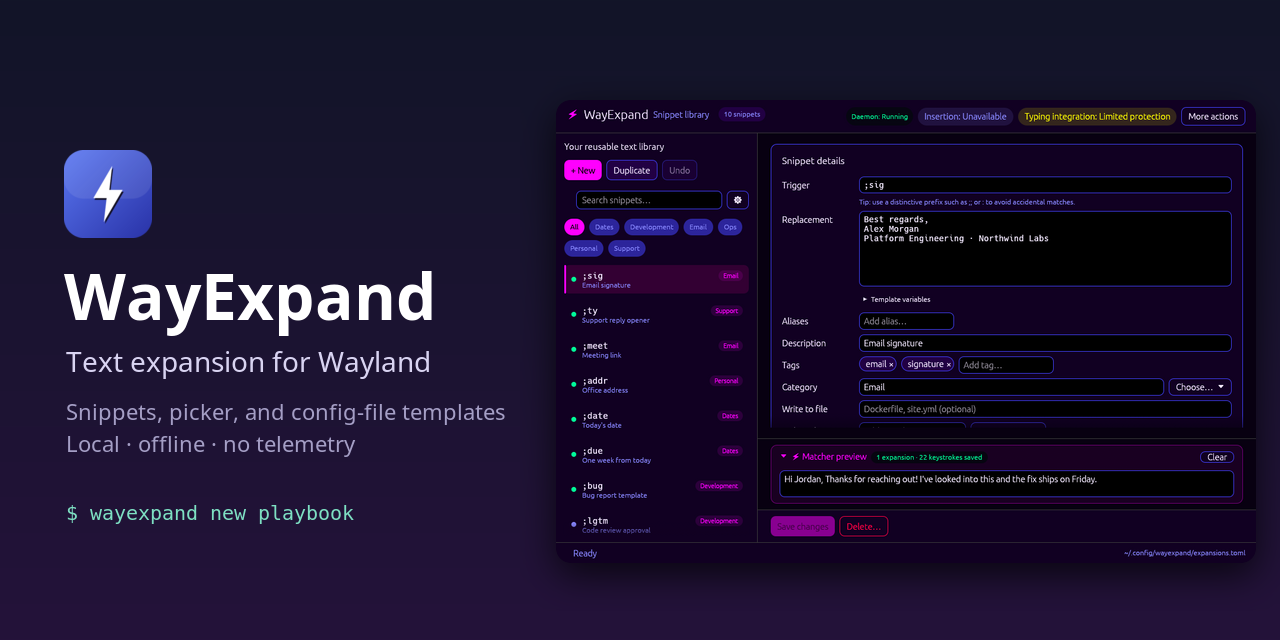
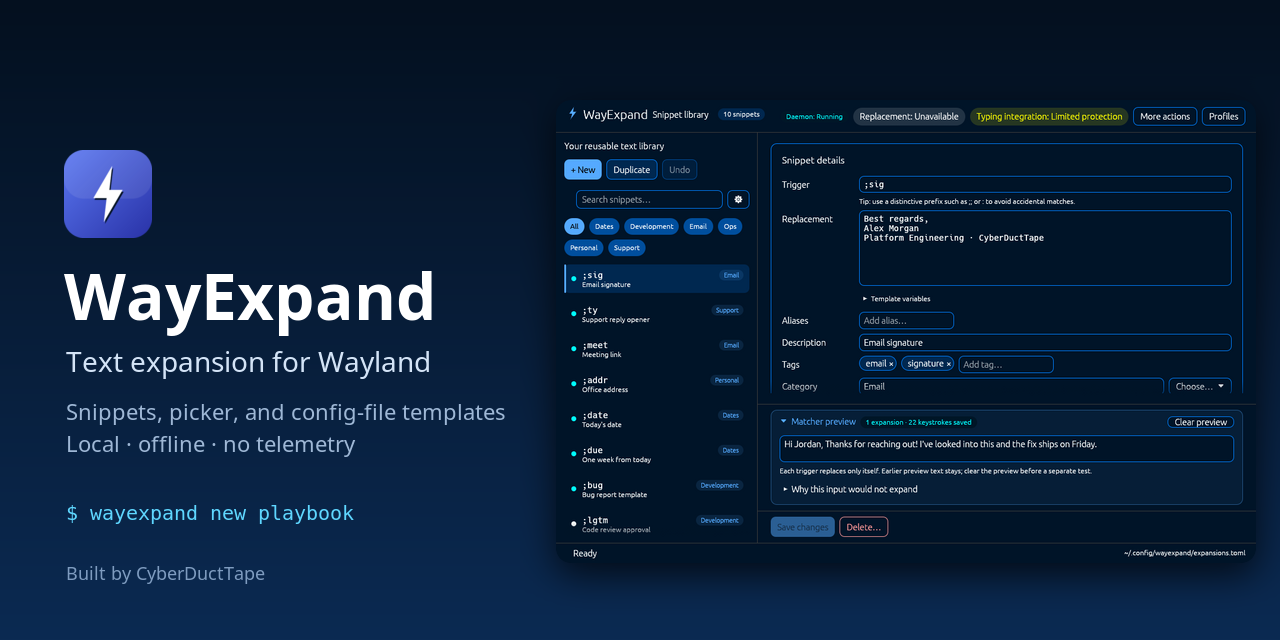
Refresh preview screenshots in the Terminal Blue pack
Recapture the editor, first-run screen, and quick-insert picker from the
current GUI in Terminal Blue (previously Retro 80s Neon), using a sample
library committed as docs/images/screenshot-library.toml with
CyberDuctTape as the example organization. Rebuild the social preview
in matching blues with a CyberDuctTape credit, document the capture
commands, credit CyberDuctTape in both READMEs, and describe the
first-run screen's four steps accurately.

diff --git a/README.md b/README.md
@@ -12,7 +12,7 @@ signature. Type `;ty` and get your support reply — with the cursor waiting
 where you need to keep typing. Dates, addresses, templates, team snippets:
 local, offline, no account, no telemetry.
 
-![WayExpand's editor in the Retro 80s Neon color pack, with the Matcher preview: typing "Hi Jordan, ;ty …" expanded into a full support reply, "1 expansion · 22 keystrokes saved"](docs/images/wayexpand-editor-try-it-live.png)
+![WayExpand's editor in the Terminal Blue color pack, with the Matcher preview: typing "Hi Jordan, ;ty …" expanded into a full support reply, "1 expansion · 22 keystrokes saved"](docs/images/wayexpand-editor-try-it-live.png)
 
 ### What makes it different
 
@@ -27,7 +27,7 @@ local, offline, no account, no telemetry.
   tracking (currently KDE Plasma); elsewhere, or without the service, Enter
   copies it to the clipboard. No trigger to remember.
 
-  ![The quick-insert picker in the Retro 80s Neon color pack: a search box above the snippet list, each entry showing its trigger, description, category, and a preview](docs/images/wayexpand-quick-insert-picker.png)
+  ![The quick-insert picker in the Terminal Blue color pack: a search box above the snippet list, each entry showing its trigger, description, category, and a preview](docs/images/wayexpand-quick-insert-picker.png)
 
 - **Whole config files, filled in.** `wayexpand new playbook` asks for the
   host group and package and writes a ready Ansible playbook. Dockerfiles,
@@ -100,14 +100,16 @@ packages and the Ubuntu PPA's status.
 
 ## Your first minute
 
-![WayExpand's first-run screen in the Retro 80s Neon color pack with three steps: Turn on WayExpand, Add your first snippet, Try it](docs/images/wayexpand-first-run.png)
+![WayExpand's first-run screen in the Terminal Blue color pack with four steps: Turn on WayExpand, Verify this desktop session, Add your first snippet, Check the Matcher preview](docs/images/wayexpand-first-run.png)
 
 1. **Turn on WayExpand** — one click in the GUI, or `wayexpand setup` in a
    terminal.
-2. **Add a snippet** — *Create test snippet*, write your own, or import Espanso.
-3. **Try it** — type the trigger in *Matcher preview*, then in a normal text
-   field in an app you use. Check *Desktop details* for the capabilities and
-   certification status of the active integration.
+2. **Verify this desktop session** — the GUI checks that the user service is
+   reachable; *Open diagnostics* shows the capabilities and certification
+   status of the active integration.
+3. **Add a snippet** — *Create test snippet*, write your own, or import Espanso.
+4. **Try it** — type the trigger in *Matcher preview*, then in a normal text
+   field in an app you use.
 
 Set up the picker by adding a desktop shortcut (for example <kbd>Super</kbd> +
 <kbd>.</kbd>) that runs `wayexpand-gui --picker`. Scripts can do the same with
@@ -236,4 +238,5 @@ checks, systemd validation, packaging checks, and dependency advisories.
 
 ## License
 
-[MIT](LICENSE)
+[MIT](LICENSE). WayExpand is built and maintained by
+[CyberDuctTape](https://github.com/cyberducttape).

diff --git a/docs/GUI.md b/docs/GUI.md
@@ -505,10 +505,23 @@ Potential color packs for future releases:
 ## Screenshots
 
 The first-run screen and the editor with the Matcher preview, both in the
-Retro 80s Neon color pack. `scripts/gui-screenshot.sh` renders the same
-screens from a debug build inside a private headless KWin.
+Terminal Blue color pack. `scripts/gui-screenshot.sh` renders the same
+screens from a debug build inside a private headless KWin. The sample library
+is [`images/screenshot-library.toml`](images/screenshot-library.toml), with
+CyberDuctTape as the example organization:
 
-![WayExpand's first-run screen with three steps: Turn on WayExpand, Add your first snippet, Try it](images/wayexpand-first-run.png)
+```sh
+export WAYEXPAND_GUI_SCREENSHOT_PACK=terminal_blue
+WAYEXPAND_GUI_SCREENSHOT_DAEMON=1 WAYEXPAND_GUI_SCREENSHOT_VIEW=preview \
+    scripts/gui-screenshot.sh docs/images/screenshot-library.toml \
+    docs/images/wayexpand-editor-try-it-live.png 1180x780
+WAYEXPAND_GUI_SCREENSHOT_DAEMON=1 WAYEXPAND_GUI_SCREENSHOT_PICKER=1 \
+    scripts/gui-screenshot.sh docs/images/screenshot-library.toml \
+    docs/images/wayexpand-quick-insert-picker.png 1180x780
+scripts/make-social-preview.sh
+```
+
+![WayExpand's first-run screen with four steps: Turn on WayExpand, Verify this desktop session, Add your first snippet, Check the Matcher preview](images/wayexpand-first-run.png)
 
 ![WayExpand's editor with the Matcher preview expanding a support reply](images/wayexpand-editor-try-it-live.png)
 

diff --git a/README.de.md b/README.de.md
@@ -15,7 +15,7 @@ automatisierte End-to-End-Zertifizierung freigegeben. Prüfen Sie vor dem
 produktiven Einsatz `wayexpand doctor` und die
 [Support-Matrix](docs/SUPPORT_MATRIX.md).
 
-![WayExpand-Editor im Farbschema „Retro 80s Neon“ mit Matcher-Vorschau: aus „Hi Jordan, ;ty …“ wird eine vollständige Support-Antwort](docs/images/wayexpand-editor-try-it-live.png)
+![WayExpand-Editor im Farbschema „Terminal Blue“ mit Matcher-Vorschau: aus „Hi Jordan, ;ty …“ wird eine vollständige Support-Antwort](docs/images/wayexpand-editor-try-it-live.png)
 
 ### Das Besondere
 
@@ -220,4 +220,5 @@ Beiträge und Fehlerberichte:
 
 ## Lizenz
 
-[MIT](LICENSE)
+[MIT](LICENSE). WayExpand wird von
+[CyberDuctTape](https://github.com/cyberducttape) entwickelt und gepflegt.
